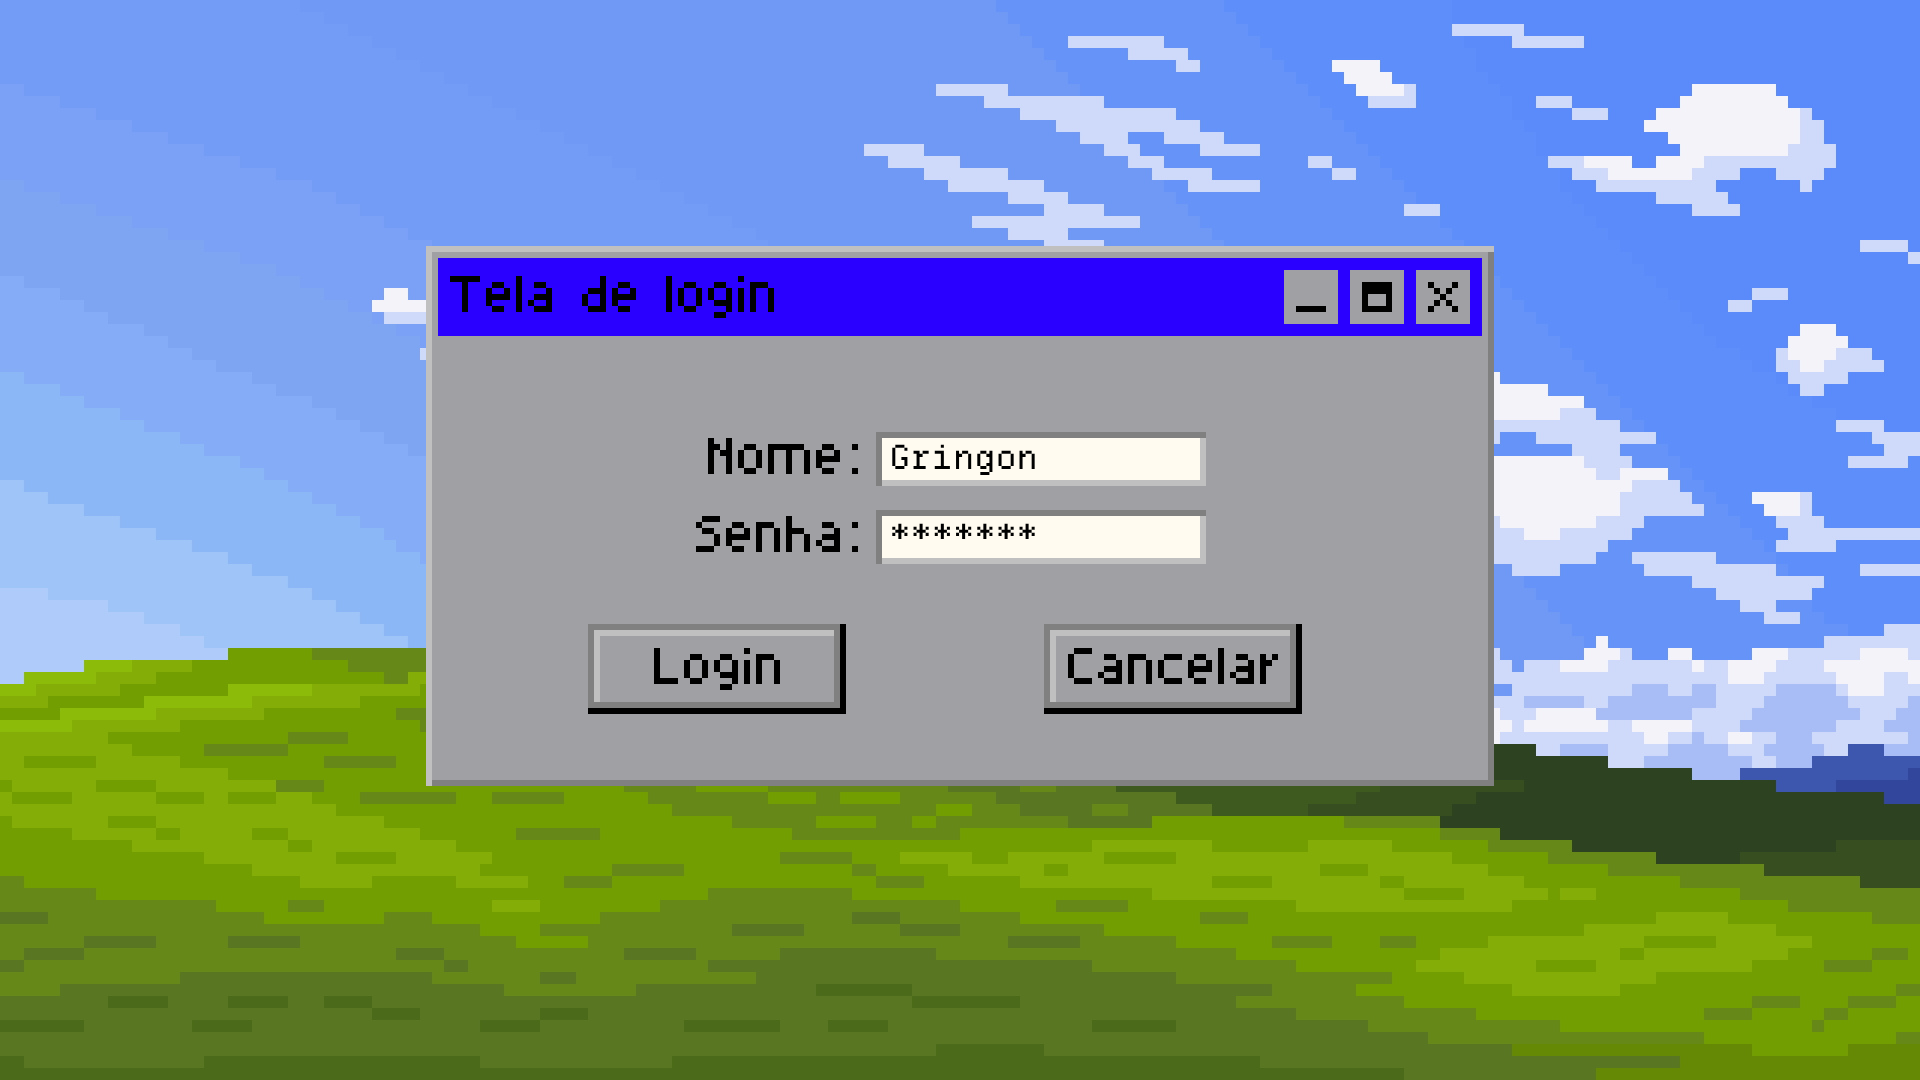
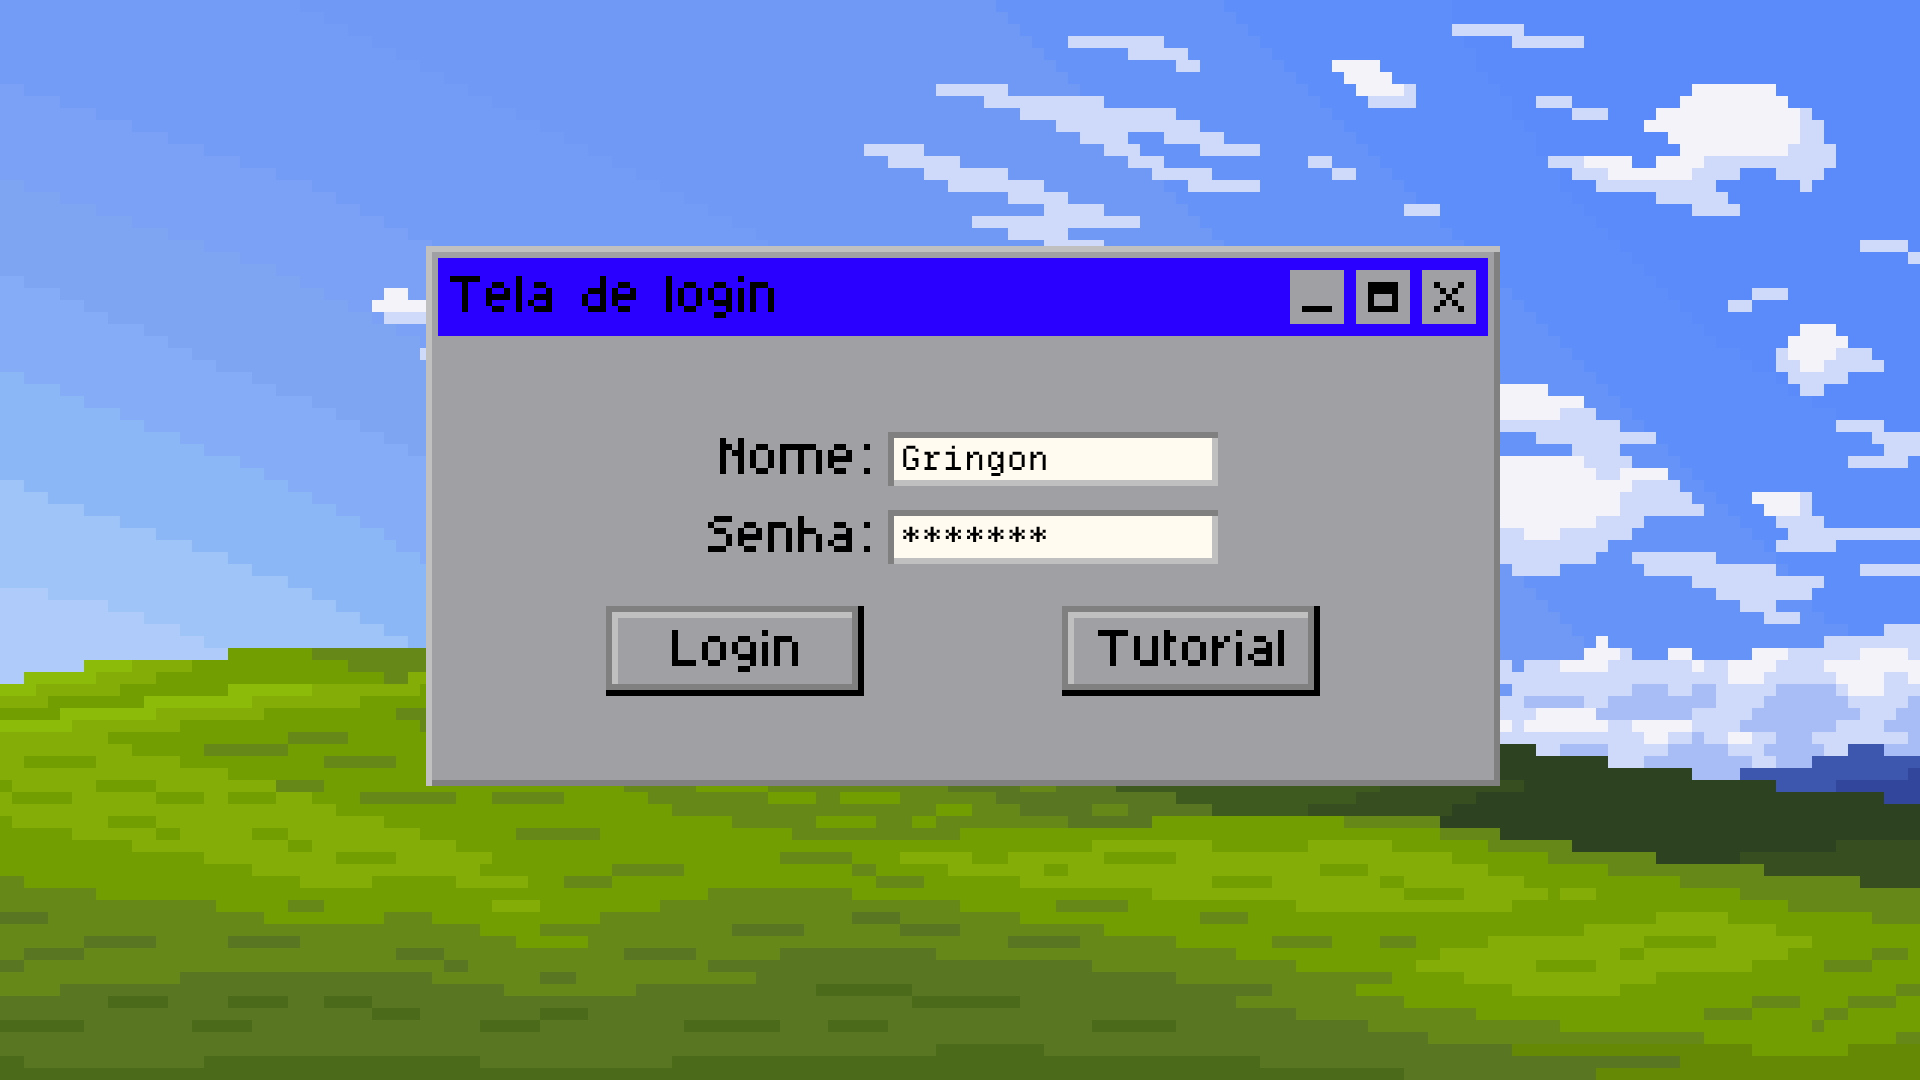
Added a tutorial

diff --git a/src/App.jsx b/src/App.jsx
@@ -13,6 +13,9 @@ export default function App() {
     login: {
       desktop: "login.png",
     },
+    tutorial: {
+      desktop: "tutorial.png",
+    },
     feb: {
       desktop: "/feb/desktop.png",
       notes: [
@@ -52,7 +55,7 @@ export default function App() {
   }
 
   useEffect(() => {
-    const duration = 4000
+    const duration = 8000
     const interval = 50
     const steps = duration / interval
     let current = 0
@@ -151,16 +154,16 @@ export default function App() {
         />
         <div style={{
           position: "absolute",
-          bottom: "20%",
+          top: "50%",
           left: "50%",
-          transform: "translateX(-50%)",
+          transform: "translate(-50%, -50%)",
           textAlign: "center",
           fontFamily: "Departure",
         }}>
           <div style={{
             color: "white",
             fontSize: "clamp(10px, 1.5vw, 24px)",
-            marginBottom: "12px",
+            marginBottom: "8px",
           }}>
             Iniciando sistema...
           </div>
@@ -169,6 +172,8 @@ export default function App() {
             height: "clamp(12px, 1.5vw, 20px)",
             background: "#333",
             border: "2px solid #888",
+            marginBottom: "16px",
+            margin: "0 auto 16px auto",
           }}>
             <div style={{
               width: `${progress}%`,
@@ -176,6 +181,12 @@ export default function App() {
               background: "#000080",
               transition: "width 0.05s linear",
             }} />
+          </div>
+          <div style={{
+            color: "#aaa",
+            fontSize: "clamp(8px, 1vw, 18px)",
+          }}>
+            Para melhor experiência, pressione F11 para tela cheia.
           </div>
         </div>
       </div>
@@ -223,13 +234,30 @@ export default function App() {
             onClick={() => setMonth("feb")}
             style={{
               position: "absolute",
-              left: "30%",
-              top: "57%",
-              width: "14.4%",
-              height: "10%",
+              left: "31.5%",
+              top: "56%",
+              width: "13.5%",
+              height: "8.5%",
               cursor: "pointer",
               pointerEvents: "all",
               background: "red",
+              opacity: 0.0,
+            }}
+          />
+        )}
+        {/* HOTSPOT BOTÃO TUTORIAL */}
+        {month === "login" && (
+          <div
+            onClick={() => setMonth("tutorial")}
+            style={{
+              position: "absolute",
+              right: "31.2%",
+              top: "56%",
+              width: "13.5%",
+              height: "8.5%",
+              cursor: "pointer",
+              pointerEvents: "all",
+              background: "blue",
               opacity: 0.0,
             }}
           />
@@ -288,9 +316,8 @@ export default function App() {
             }}
           />
         )}
-
-        {/* HOTSPOT FECHAR BLOCO */}
-        {notesOpen && (
+        {/* HOTSPOT FECHAR BLOCO - meses normais */}
+        {notesOpen && month !== "tutorial" && (
           <div
             onClick={closeNotes}
             style={{
@@ -302,6 +329,24 @@ export default function App() {
               cursor: "pointer",
               pointerEvents: "all",
               background: "yellow",
+              opacity: 0.0,
+            }}
+          />
+        )}
+
+        {/* HOTSPOT FECHAR TUTORIAL */}
+        {month === "tutorial" && (
+          <div
+            onClick={() => setMonth("login")}
+            style={{
+              position: "absolute",
+              right: "15%",
+              top: "10%",
+              width: "2.8%",
+              height: "5%",
+              cursor: "pointer",
+              pointerEvents: "all",
+              background: "red",
               opacity: 0.0,
             }}
           />
